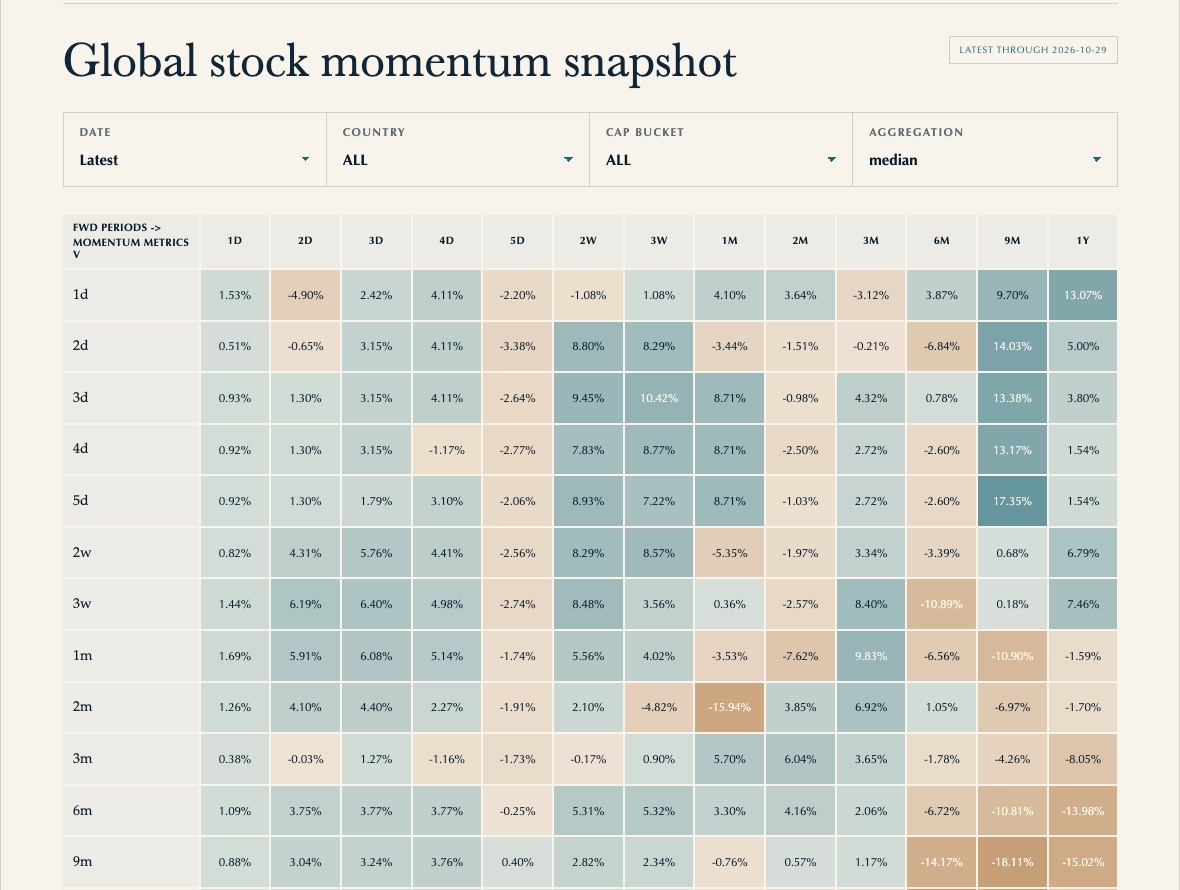
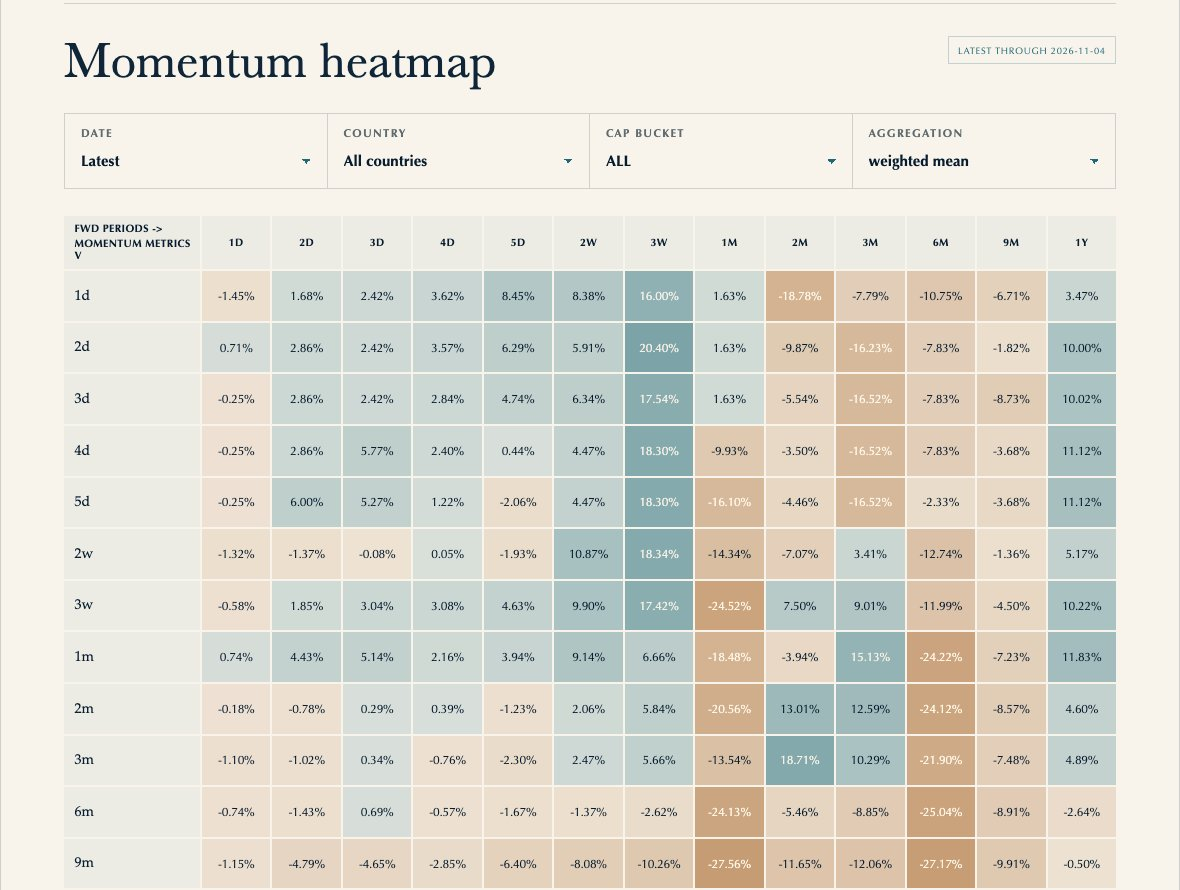
Update Nimloth post title and snapshot, add Line prompt and problem statement
Rename the Nimloth flagship post to Momentum in global data and refresh
the heatmap screenshot to data through 2026-11-04. Add the prompt and
problem statement above the Line title, and drop the numbers from the
project card labels.

diff --git a/index.html b/index.html
@@ -45,16 +45,16 @@
       <p class="eyebrow eyebrow-projects">Projects</p>
 
       <section id="nimloth" class="entry card">
-        <p class="card-label">01 · Research</p>
+        <p class="card-label">Research</p>
         <h3 class="title"><a href="https://nimlothcapital.com" target="_blank" rel="noopener">Nimloth Capital: Quantitative Market Research</a></h3>
-        <p>A two-year research program in market data, artificial intelligence, and quantitative trading, published openly: methods, results, and the systems beneath them. The flagship post, <em>Putting the data to work</em>, is an interactive global stock momentum snapshot. It relates past momentum signals to forward returns across major markets, with filters for date, country, market-cap bucket, and aggregation method.</p>
+        <p>A two-year research program in market data, artificial intelligence, and quantitative trading, published openly: methods, results, and the systems beneath them. The flagship post, <em>Momentum in global data</em>, is an interactive global stock momentum snapshot. It relates past momentum signals to forward returns across major markets, with filters for date, country, market-cap bucket, and aggregation method.</p>
         <a class="media" href="https://nimlothcapital.com/research/momentum" target="_blank" rel="noopener" aria-label="Open the Nimloth Capital momentum research post">
           <img src="assets/nimloth-momentum.jpg" alt="Heat map from Nimloth Capital's global stock momentum snapshot, relating momentum metrics to forward returns" width="1180" height="890" loading="lazy">
         </a>
       </section>
 
       <section id="odinsbane" class="entry card">
-        <p class="card-label">02 · Writing</p>
+        <p class="card-label">Writing</p>
         <h3 class="title"><a href="https://odinsbane.com" target="_blank" rel="noopener">Odinsbane: The Waters of Mimir</a></h3>
         <p>A fantasy novel rooted in Norse mythology. Two siblings who grew up in the ruins of Odin’s mistakes set out to teach the king of the gods that his arrogance has consequences, and find a world of lore and witchcraft where great powers battle with brutal might and ruthless deceit. Self-published, and a different outlet for the same curiosity about power, ambition, and its legacy.</p>
         <a class="media" href="https://odinsbane.com" target="_blank" rel="noopener" aria-label="Visit odinsbane.com">
@@ -63,9 +63,11 @@
       </section>
 
       <section id="columbia" class="entry card">
-        <p class="card-label">03 · Coursework</p>
+        <p class="card-label">Coursework</p>
         <h3 class="title">Columbia Coursework</h3>
         <p class="meta">Human Centered Design · Final project</p>
+        <p class="subtitle">Prompt: Solve a problem for an overcrowded New York city</p>
+        <p class="subtitle">Problem statement: People don't know where to go in the subway. Help international professionals moving here, who need to get around the city, to avoid unforced errors in the subway.</p>
         <h4 class="subtitle">Line: Subway Navigation for International Professionals</h4>
         <p>New York draws thousands of international professionals every year. They arrive feeling ready, but then they reach the subway. Finding the right exits and platforms is like navigating a jungle underneath the city.</p>
         <p>What they need is Line. With each subway exit numbered, the Line app maps every detail of your fastest route and buzzes if you head the wrong way. Line can connect to any wearable device and project augmented reality arrows into your phone or smart glasses that ease your transition between the underground and the city.</p>
